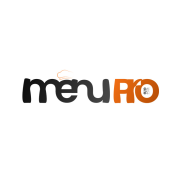
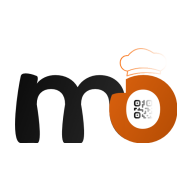
Icône PWA corrigée (symbole mo) + footer PeleGroup
- Icônes PWA: utilisation du symbole "mo" (toque+QR) au lieu du logo texte complet
- Ajout icônes maskable séparées pour Android (safe zone 20%)
- manifest.json: séparation purpose "any" et "maskable"
- Footer: ajout crédit "Un produit PeleGroup — Made in Côte d'Ivoire"

Changed region(s): [[0.0625, 0.25, 0.9375, 0.75]]

diff --git a/resources/views/components/layouts/public.blade.php b/resources/views/components/layouts/public.blade.php
@@ -272,9 +272,14 @@
                 $footerText = \App\Models\SystemSetting::get('footer_text', '© ' . date('Y') . ' MenuPro. Tous droits réservés.');
             @endphp
             <div class="flex flex-col md:flex-row items-center justify-between gap-4">
-                <p class="text-neutral-500 text-sm">
-                    {!! $footerText !!}
-                </p>
+                <div>
+                    <p class="text-neutral-500 text-sm">
+                        {!! $footerText !!}
+                    </p>
+                    <p class="text-neutral-600 text-xs mt-1">
+                        Un produit <a href="https://pelegroup.com" target="_blank" rel="noopener" class="text-neutral-400 hover:text-primary-400 transition-colors">PeleGroup</a> — Made in Côte d'Ivoire 🇨🇮
+                    </p>
+                </div>
                 <div class="flex items-center gap-6">
                     <span class="text-neutral-500 text-sm flex items-center gap-2">
                         <span class="status-dot status-dot-success"></span>

diff --git a/resources/views/layouts/public.blade.php b/resources/views/layouts/public.blade.php
@@ -169,9 +169,14 @@
                 $footerText = \App\Models\SystemSetting::get('footer_text', '© ' . date('Y') . ' MenuPro. Tous droits réservés.');
             @endphp
             <div class="flex flex-col md:flex-row items-center justify-between gap-4">
-                <p class="text-neutral-500 text-sm">
-                    {!! $footerText !!}
-                </p>
+                <div>
+                    <p class="text-neutral-500 text-sm">
+                        {!! $footerText !!}
+                    </p>
+                    <p class="text-neutral-600 text-xs mt-1">
+                        Un produit <a href="https://pelegroup.com" target="_blank" rel="noopener" class="text-neutral-400 hover:text-primary-400 transition-colors">PeleGroup</a> — Made in Côte d'Ivoire 🇨🇮
+                    </p>
+                </div>
                 <div class="flex items-center gap-6">
                     <span class="text-neutral-500 text-sm flex items-center gap-2">
                         <span class="status-dot status-dot-success"></span>
